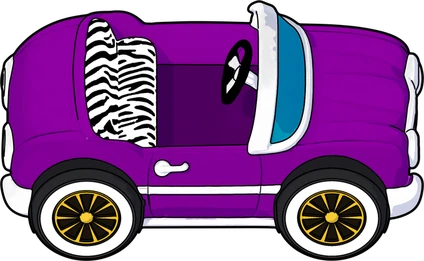
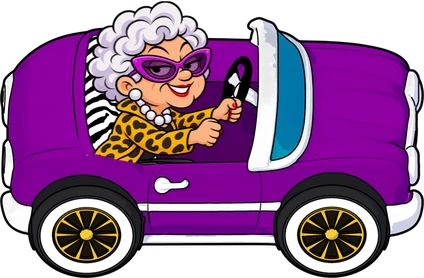
reindeer: two audible sound faults fixed, rules page pictures show the drivers and the tree
- At the fastest turbo all five reel stops fell within about 20 ms and stacked into one doubled sound: one stop sound
  per spin at turbo 2, and a stop still playing from the spin before is cut.
- When the present's open pictures load late the trigger falls back to a pulse, which had no pop: the pop now plays on
  the pulse's first frame.
- Reel 2's stop sound keeps its order after reel 1; sound_probe checks against the game's own frame log.
- Rules page: H1, H2 and W pictures rebuilt as the board draws them (tools/build_rules_pictures.py); the rider sheets are
  stamped. Rules text says "play amount".

Claude-Session: https://claude.ai/code/session_01JaJpCYPZrRZBgw81pXW3tP

diff --git a/apps/run_over_reindeer/src/game/road/roadBoard.ts b/apps/run_over_reindeer/src/game/road/roadBoard.ts
@@ -211,7 +211,11 @@ export class RoadBoard {
 	 *  trigger's pop still to come (the frame the first present's lid leaves the box) */
 	private reelStopAt: (number | null)[] = [null, null, null, null, null];
 	private trafficFading = false;
+	/** this spin drove in at turbo 2: its reel stops are one moment and sound once (RoadSounds.reelStop) */
+	private reelStopTurbo2 = false;
 	private popWanted = false;
+	/** a trigger's pop on its pulse's first frame (the open's pictures were not in time) */
+	private pulsePopWanted = false;
 	/** the win showing: its start (win clock), its whole length, when the total pops in (ms into the win) */
 	private win: { t0: number; holdMs: number; fadeAt: number; active: boolean; dim: boolean; totalAt: number } | null = null;
 	private destroyed = false;
@@ -383,6 +387,12 @@ export class RoadBoard {
 
 	/** every present animating: follows its sprite, shows its frame and light */
 	private updatePresents(now: number) {
+		// a trigger whose open's pictures were not in time pulses instead: its pop on the pulse's first frame (pass 5)
+		if (this.pulsePopWanted && this.win?.active) {
+			this.pulsePopWanted = false;
+			this.features.sounds.mark('lid', 'pulse first frame (the open did not load in time)');
+			this.features.sounds.cue('present', 'pulse');
+		}
 		for (const car of this.cars) {
 			const actor = car.present;
 			if (!actor || !actor.busy) continue;
@@ -563,7 +573,19 @@ export class RoadBoard {
 			allHome = Math.max(allHome, this.laneHomeAt[lane]);
 		});
 		this.parked = parked;
+		// the stop SOUNDS go left to right at normal speed and turbo 1 (constants REINDEER_SOUND reel stop, pass 5): a reel
+		// planned a few ms before the reel to its left sounds with it instead (at turbo 1 reels 1 and 2 are about 9 ms apart)
+		if (level < 2) {
+			let prev = -Infinity;
+			for (let col = 0; col < COLS; col++) {
+				const at = reelStop[col];
+				if (at === null) continue;
+				if (at < prev) reelStop[col] = prev;
+				prev = reelStop[col] as number;
+			}
+		}
 		this.reelStopAt = reelStop;
+		this.reelStopTurbo2 = level === 2;
 		this.trafficFading = false;
 		return this.wait(allHome + 20, 'board');
 	}
@@ -800,9 +822,15 @@ export class RoadBoard {
 			.map((c) => ({ cell: c.phase === 'rest' ? c.col * ROWS + c.lane : null, dir: c.dir, winning: c.winning, lit: c.lights?.lit ?? null, level: Math.round((c.lights?.level ?? 0) * 1000) / 1000, winMs: this.win ? Math.round((this.winClock - this.win.t0) * 10) / 10 : null, winActive: !!this.win?.active }));
 	}
 
-	/** pulse some cells with no line and no amount (the scatters of a trigger); resolves after `ms` */
-	pulseCells(cells: number[], ms: number): Promise<void> {
-		return this.showWin(cells.map((cell) => ({ cells: [cell], line: 1 })), '', ms);
+	/** pulse some cells with no line and no amount (the scatters of a trigger); resolves after `ms`. `presentPop`: this
+	 *  pulse is a trigger's whole show (the open's pictures were not in time), so the presents' pop comes on its first
+	 *  frame, as it would on the open's */
+	pulseCells(cells: number[], ms: number, presentPop = false): Promise<void> {
+		const shown = this.showWin(cells.map((cell) => ({ cells: [cell], line: 1 })), '', ms);
+		this.pulsePopWanted = presentPop && cells.length > 0;
+		return shown.finally(() => {
+			this.pulsePopWanted = false;
+		});
 	}
 
 	/** a short line over the middle of the board (a retrigger's "+3 FREE SPINS"); resolves after `ms` */
@@ -1067,7 +1095,7 @@ export class RoadBoard {
 				this.reelStopAt[col] = null;
 				fired = true;
 				this.features.sounds.mark('reelStop', `reel ${col + 1}`);
-				this.features.sounds.playNamed(REINDEER_SOUND.reelStops[col], `reel ${col + 1}`);
+				this.features.sounds.reelStop(col, this.reelStopTurbo2);
 			} else {
 				left += 1;
 				last = Math.max(last, at);

diff --git a/apps/run_over_reindeer/src/game/constants.ts b/apps/run_over_reindeer/src/game/constants.ts
@@ -662,6 +662,12 @@ export const REINDEER_SOUND = {
 	//              road has four lanes and five reels; at normal speed and turbo 1 the reels finish left to right, at
 	//              turbo 2 (all lanes at once) the middle reel finishes first and the outer pairs together. A reel a
 	//              column Wild holds has no cars, so no stop. Replaces the borrowed sfx_reel_stop (once per lane).
+	//              PASS 5 (2026-11-16): at normal speed and turbo 1 a reel's stop SOUND never comes before the one of
+	//              the reel to its left (at turbo 1 reels 1 and 2 are planned about 9 ms apart, and a wide or narrow
+	//              front car could put reel 2 a few ms first): it waits those few ms, so the order is always left to
+	//              right. At turbo 2 the five stops are one moment (all within about 20 ms): ONE sound for it, the
+	//              first reel to stop (`reelStopTurbo2`), as the house thins its reel stop at turbo (Angry Mantis plays
+	//              its reel stop once while it is still sounding at turbo; Manticore once per board).
 	//   stoplight  sfx_stoplight_change, on the frame a light changes color (green at the press, amber, red), once per
 	//              frame however many lights change in it (the two go green together; red comes to the top light a
 	//              moment before the bottom one)
@@ -720,6 +726,10 @@ export const REINDEER_SOUND = {
 	stamp: { mid: 10, high: 30, names: { small: 'sfx_multiplier_land_small', mid: 'sfx_multiplier_land_mid', high: 'sfx_multiplier_land_high' } },
 	/** one per reel, reel 1 first */
 	reelStops: ['sfx_lane_stop_1', 'sfx_lane_stop_2', 'sfx_lane_stop_3', 'sfx_lane_stop_4', 'sfx_lane_stop_5'],
+	/** TURBO 2's reel stop (pass 5): a reel's stop within gapMs (real ms) of the last reel stop sound is silent (the five
+	 *  land within about 20 ms, so one sound per spin), and one still sounding from the spin before (Super's spins come
+	 *  about 450 ms apart, the sound is 454 ms) is stopped as the next starts, so it never plays twice at once */
+	reelStopTurbo2: { gapMs: 100 },
 	/** THE LINE WIN (game/bookEventHandlerMap.ts winInfo): one symbol's own sound for the whole win, as the one borrowed
 	 *  sfx_cluster_remove was before it: the best paying symbol among the winning lines (W, a line of Wilds only, pays
 	 *  as Grandma's car), with sfx_line_show under it, on the frame the lines show. The road signs go lowest to
@@ -742,7 +752,9 @@ export const REINDEER_SOUND = {
 	/** the cloud loop at the end of a round, real ms */
 	roundEndFadeMs: 300,
 	columnIn: { frame: { reindeer: 5, santa: 5, grandma: 5 } as Record<'reindeer' | 'santa' | 'grandma', number> },
-	/** the present's pop starts on this frame of the open (0 = its first; round 2 started it on PRESENT_LID_FRAME, 3) */
+	/** the present's pop starts on this frame of the open (0 = its first; round 2 started it on PRESENT_LID_FRAME, 3): on
+	 *  the first frame the open DRAWS, whichever of its slots that is on a slow frame. Pass 5: when the open's pictures
+	 *  are not in time and the trigger pulses instead, the pop comes on the pulse's first frame */
 	presentPopFrame: 0,
 	/** a column character's win clip, by tier */
 	columnWin: { reindeer: 'sfx_column_win_reindeer', santa: 'sfx_column_win_santa', grandma: 'sfx_column_win_grandma' } as Record<'reindeer' | 'santa' | 'grandma', string>,

diff --git a/apps/run_over_reindeer/src/game/assetStamp.ts b/apps/run_over_reindeer/src/game/assetStamp.ts
@@ -225,6 +225,14 @@ export default {
 	"reindeer/run-full-2.webp": "9cac42b7",
 	"reindeer/run-full-3.webp": "558c65e2",
 	"reindeer/run-phone-0.webp": "1ec4d7f1",
+	"riders/seated-phone.json": "c4510073",
+	"riders/seated-phone.webp": "7f68a39c",
+	"riders/seated.json": "fb540aa4",
+	"riders/seated.webp": "902dd1bb",
+	"riders/wagon-tree-phone.json": "f1c343b2",
+	"riders/wagon-tree-phone.webp": "7f3c49a0",
+	"riders/wagon-tree.json": "c4ab0161",
+	"riders/wagon-tree.webp": "3e84d2d3",
 	"road/road.webp": "b1a78143",
 	"road/shadow-phone.webp": "6c79ec81",
 	"road/shadow.webp": "e5e8af63",
@@ -235,9 +243,9 @@ export default {
 	"road/win-lights-phone.webp": "4f7f6fb7",
 	"road/win-lights.webp": "ba8efd5b",
 	"symbols/single/H1_L.webp": "0a0b23ba",
-	"symbols/single/H1_R.webp": "335f2a5c",
+	"symbols/single/H1_R.webp": "3a8ac4fc",
 	"symbols/single/H2_L.webp": "10f999b2",
-	"symbols/single/H2_R.webp": "1c709ba9",
+	"symbols/single/H2_R.webp": "2ccf38d5",
 	"symbols/single/H3_L.webp": "b96164c5",
 	"symbols/single/H3_R.webp": "3d47a973",
 	"symbols/single/H4_L.webp": "be574d2e",
@@ -249,7 +257,7 @@ export default {
 	"symbols/single/L5.webp": "2f2d8dd5",
 	"symbols/single/S.webp": "16153822",
 	"symbols/single/W_L.webp": "de883aad",
-	"symbols/single/W_R.webp": "d6ac8d4f",
+	"symbols/single/W_R.webp": "2ce8ecb1",
 	"symbols/single/reindeer_run.webp": "61d4e10f",
 	"symbols/single/reindeer_run_L.webp": "8b1bcb94",
 	"symbols/symbols-phone.json": "0c4d5c50",
@@ -484,6 +492,14 @@ export const fileBytes = {
 	"reindeer/run-full-2.webp": 807480,
 	"reindeer/run-full-3.webp": 366226,
 	"reindeer/run-phone-0.webp": 903830,
+	"riders/seated-phone.json": 76468,
+	"riders/seated-phone.webp": 73604,
+	"riders/seated.json": 357878,
+	"riders/seated.webp": 354992,
+	"riders/wagon-tree-phone.json": 48501,
+	"riders/wagon-tree-phone.webp": 46176,
+	"riders/wagon-tree.json": 217447,
+	"riders/wagon-tree.webp": 215108,
 	"road/road.webp": 180214,
 	"road/shadow-phone.webp": 2382,
 	"road/shadow.webp": 9834,
@@ -494,9 +510,9 @@ export const fileBytes = {
 	"road/win-lights-phone.webp": 5116,
 	"road/win-lights.webp": 16434,
 	"symbols/single/H1_L.webp": 28124,
-	"symbols/single/H1_R.webp": 28604,
+	"symbols/single/H1_R.webp": 34898,
 	"symbols/single/H2_L.webp": 30550,
-	"symbols/single/H2_R.webp": 30336,
+	"symbols/single/H2_R.webp": 41838,
 	"symbols/single/H3_L.webp": 31146,
 	"symbols/single/H3_R.webp": 31076,
 	"symbols/single/H4_L.webp": 23634,
@@ -508,7 +524,7 @@ export const fileBytes = {
 	"symbols/single/L5.webp": 19096,
 	"symbols/single/S.webp": 21890,
 	"symbols/single/W_L.webp": 33182,
-	"symbols/single/W_R.webp": 32870,
+	"symbols/single/W_R.webp": 40536,
 	"symbols/single/reindeer_run.webp": 48996,
 	"symbols/single/reindeer_run_L.webp": 48790,
 	"symbols/symbols-phone.json": 926605,
@@ -523,4 +539,4 @@ export const landingSizes = {
 	"fonts/overpass/Overpass-heavy.woff2": 35400
 } as const;
 
-export const bootSizes = {"landing":64084,"preload":5106845,"audio":1471462} as const;
+export const bootSizes = {"landing":64084,"preload":5682170,"audio":1471462} as const;

diff --git a/apps/run_over_reindeer/src/game/road/roadSounds.ts b/apps/run_over_reindeer/src/game/road/roadSounds.ts
@@ -49,6 +49,9 @@ export class RoadSounds {
 	private dropFrame = -1;
 	private lockFrame = -1;
 	private lightFrame = -1;
+	/** the last reel stop sound: when (performance.now) and which */
+	private reelStopT = -Infinity;
+	private reelStopName = '';
 	/** the frame each tier's column win sound last played */
 	private winFrame: Record<string, number> = {};
 	private log: RoadSoundEntry[] = [];
@@ -103,6 +106,22 @@ export class RoadSounds {
 	playNamed(name: string, detail?: string, rate?: number) {
 		this.note('sound', name, rate !== undefined && rate !== 1 ? `${detail ?? ''} rate ${rate.toFixed(4)}`.trim() : detail);
 		this.env.play(name, rate);
+	}
+
+	/** A REEL'S STOP (roadBoard.updateReelStops), its own sound on this frame. At turbo 2 (`turbo2`) the five stops are one
+	 *  moment: a stop within REINDEER_SOUND.reelStopTurbo2.gapMs of the last one sounded is silent, and the last one, if it
+	 *  is still sounding (the spin before's), is stopped as this one starts: one at a time */
+	reelStop(reel: number, turbo2: boolean) {
+		const name = REINDEER_SOUND.reelStops[reel];
+		const now = performance.now();
+		if (turbo2) {
+			if (now - this.reelStopT < REINDEER_SOUND.reelStopTurbo2.gapMs) return;
+			// (a play that has already ended is gone from the player: stopping it does nothing)
+			if (this.reelStopName) this.env.stop(this.reelStopName);
+		}
+		this.reelStopT = now;
+		this.reelStopName = name;
+		this.playNamed(name, `reel ${reel + 1}`);
 	}
 
 	/** THE TARGET CROSSHAIR'S BEATS (RoadFeatures.onCrosshair): each hop at its own rate, a drop once a frame and never on

diff --git a/apps/run_over_reindeer/src/components/Board.svelte b/apps/run_over_reindeer/src/components/Board.svelte
@@ -202,10 +202,10 @@
 		boardWinClear: () => road.clearWin(),
 		boardPulse: async ({ cells, ms }) => {
 			// THE PRESENTS OF A TRIGGER play their full open with the light (game/road/present.ts), the other symbols dimmed
-			// for as long; without the open's pictures in time they pulse as before
+			// for as long; without the open's pictures in time they pulse as before (with the pop on the pulse's first frame)
 			if (await road.presentsReady()) {
 				await Promise.all([road.openPresents(cells), road.pulseCells(cells, Math.max(ms, road.presentShowMs() / boardRate()))]);
-			} else await road.pulseCells(cells, ms);
+			} else await road.pulseCells(cells, ms, true); // (the presents' pop on the pulse's first frame, as on the open's)
 			road.clearWin();
 		},
 		boardMessage: async ({ text, ms }) => {

diff --git a/apps/run_over_reindeer/src/game/gameInfoText.ts b/apps/run_over_reindeer/src/game/gameInfoText.ts
@@ -40,7 +40,7 @@ const R = config.multipliers.bonusRare;
 export const gameInfoText = () => ({
 	paytable: {
 		intro: soc(
-			`Wins pay on **${config.paylines.length} fixed lines**, from the leftmost column to the right, for 3, 4 or 5 matching symbols in a row. Amounts are shown for the current bet.`,
+			`Wins pay on **${config.paylines.length} fixed lines**, from the leftmost column to the right, for 3, 4 or 5 matching symbols in a row. Amounts are shown for the current play amount.`,
 			`Wins land on **${config.paylines.length} fixed lines**, from the leftmost column to the right, for 3, 4 or 5 matching symbols in a row. Amounts are multiples of the play amount.`,
 		),
 		specials: 'Special symbols',

diff --git a/apps/run_over_reindeer/tools/build_rules_pictures.py b/apps/run_over_reindeer/tools/build_rules_pictures.py
@@ -1,0 +1,144 @@
+"""THE RULES PAGE'S VEHICLE PICTURES WITH THEIR RIDERS (2026-11-16): Grandma's car (H1) with Grandma seated, the station
+wagon (H2) with its Christmas tree, rail and ropes, Santa's sleigh (W) with Santa seated, as the board draws them at rest.
+
+Run with the math env's Python (Pillow, numpy, scipy), AFTER tools/build_assets.py (it writes every rules page picture,
+these three empty), tools/build_seated.py and tools/build_wagon_tree.py:
+    math-sdk/env/bin/python web-sdk/apps/run_over_reindeer/tools/build_rules_pictures.py [--out <dir>]
+
+It READS only the game's own built art: the desktop symbol atlas (static/assets/symbols/symbols.webp, the vehicle
+sprite), the desktop rider sheets (static/assets/riders/seated.webp, wagon-tree.webp) and the placements the game draws
+them by (src/game/seatedSpec.ts, wagonTreeSpec.ts, roadArtSpec.ts, constants SEATED.place at its defaults). All of it is
+at 3.2 px per road px; the riders are placed on the vehicle at that density (bilinear, premultiplied), in the game's
+order: the vehicle sprite, then the driver and the front layer (the near door, the sleigh's near wall), or the tree, the
+front rail and the ropes. At rest: no lean, no bob, no bend.
+It WRITES static/assets/symbols/single/{H1_R,H2_R,W_R}.webp (or into --out): the right facing pictures the rules page
+shows (ui/GameInfoModal.svelte pictureOf), at the same 2 px per road px and webp quality as tools/build_assets.py. The
+canvas is the vehicle's own box, grown only where a rider reaches past it (Grandma's head, the tree's top), so the
+vehicle draws at the same size in the page's square tile as before. The _L pictures are not on the page and stay as
+build_assets.py made them.
+"""
+import argparse
+import json
+import math
+import os
+
+import numpy as np
+from PIL import Image
+from scipy import ndimage
+
+HERE = os.path.dirname(os.path.abspath(__file__))
+APP = os.path.dirname(HERE)
+ASSETS = os.path.join(APP, "static", "assets")
+GAME = os.path.join(APP, "src", "game")
+DENS = 3.2  # px per road px of the desktop atlases
+OUT_DENS = 2.0  # the rules page pictures' (tools/build_assets.py build_symbols)
+
+
+def ts_json(name):
+    src = open(os.path.join(GAME, name)).read()
+    return json.loads(src[src.index("{"): src.rindex("}") + 1])
+
+
+def sheet_frame(sheet_json, name):
+    meta = json.load(open(os.path.join(ASSETS, sheet_json)))
+    f = meta["frames"][name]["frame"]
+    im = Image.open(os.path.join(os.path.dirname(os.path.join(ASSETS, sheet_json)), meta["meta"]["image"])).convert("RGBA")
+    return np.asarray(im.crop((f["x"], f["y"], f["x"] + f["w"], f["y"] + f["h"]))).astype(np.float32) / 255.0
+
+
+def draw(canvas, pic, x, y, w, h, origin, anchor=(0.0, 0.0), mirror=False):
+    """`pic` drawn over `canvas` (straight alpha float RGBA): its anchor point at road (x, y), road size w x h, mirrored
+    about its anchor; `origin` the canvas px of road (0, 0). Bilinear on premultiplied pixels."""
+    H, W = canvas.shape[:2]
+    ph, pw = pic.shape[:2]
+    yy, xx = np.mgrid[0:H, 0:W].astype(np.float32) + 0.5
+    rx = (xx - origin[0]) / DENS - x  # road px from the anchor point
+    ry = (yy - origin[1]) / DENS - y
+    if mirror:
+        rx = -rx
+    sx = (rx / w + anchor[0]) * pw - 0.5
+    sy = (ry / h + anchor[1]) * ph - 0.5
+    pm = pic.copy()
+    pm[..., :3] *= pm[..., 3:4]
+    top = np.stack([ndimage.map_coordinates(pm[..., i], [sy, sx], order=1, mode="constant") for i in range(4)], -1)
+    # straight over: out = top + bottom * (1 - a_top), in premultiplied terms
+    bot = canvas.copy()
+    bot[..., :3] *= bot[..., 3:4]
+    out = top + bot * (1 - top[..., 3:4])
+    a = np.clip(out[..., 3:4], 1e-6, 1)
+    out[..., :3] = np.clip(out[..., :3] / a, 0, 1)
+    out[..., 3] = np.clip(out[..., 3], 0, 1)
+    return out
+
+
+def resize(arr, scale):
+    """tools/build_assets.py resize: premultiplied Lanczos, so no dark fringes"""
+    h, w = arr.shape[:2]
+    pm = arr.copy()
+    pm[..., :3] *= pm[..., 3:4]
+    im = Image.fromarray((pm * 255).round().astype(np.uint8), "RGBA").resize((max(1, round(w * scale)), max(1, round(h * scale))), Image.LANCZOS)
+    out = np.asarray(im).astype(np.float32) / 255.0
+    alpha = np.clip(out[..., 3:4], 1e-6, 1)
+    out[..., :3] = np.clip(out[..., :3] / alpha, 0, 1)
+    return Image.fromarray((out * 255).round().astype(np.uint8), "RGBA")
+
+
+def layers(frame):
+    """the layers over the vehicle sprite, in draw order: (picture, x, y, w, h, anchor, mirror), road px from the anchor"""
+    if frame == "H2_R":
+        t = ts_json("wagonTreeSpec.ts")["frames"][frame]["tiers"]["full"]
+        return [(sheet_frame("riders/wagon-tree.json", f"{frame}_{k}"), t[k]["x"], t[k]["y"], t[k]["w"], t[k]["h"], (0, 0), False) for k in ("tree", "rail", "ropes")]
+    S = ts_json("seatedSpec.ts")
+    f = S["frames"][frame]
+    c = S["characters"][f["character"]]
+    ct = c["tiers"]["full"]
+    k = f["height"] / c["height"]  # constants SEATED.place[frame].scale is 1 and its dx, dy 0 (checked by the game's probe)
+    fb = f["tiers"]["full"]["front"]
+    return [
+        (sheet_frame("riders/seated.json", f"seat_{f['character']}"), f["at"][0], f["at"][1], ct["width"] * k, ct["height"] * k, tuple(ct["anchor"]), f["mirror"]),
+        (sheet_frame("riders/seated.json", f"{frame}_front"), fb["x"], fb["y"], fb["w"], fb["h"], (0, 0), False),
+    ]
+
+
+def build(frame, out_dir):
+    rw, rh = ts_json("roadArtSpec.ts")["symbols"][frame].values()
+    car = sheet_frame("symbols/symbols.json", frame)
+    L = layers(frame)
+    # the canvas: the vehicle's box (anchor at its bottom centre), grown to every layer's box
+    x0, y0, x1, y1 = -rw / 2, -rh, rw / 2, 0.0
+    for pic, x, y, w, h, an, mir in L:
+        lx = x - an[0] * w if not mir else x - (1 - an[0]) * w
+        x0, y0, x1, y1 = min(x0, lx), min(y0, y - an[1] * h), max(x1, lx + w), max(y1, y + (1 - an[1]) * h)
+    # whole output px on every side the vehicle's own box had (so the vehicle keeps its exact place in the old picture)
+    grow = [math.ceil(((-rw / 2) - x0) * OUT_DENS - 1e-6), math.ceil(((-rh) - y0) * OUT_DENS - 1e-6), math.ceil((x1 - rw / 2) * OUT_DENS - 1e-6), math.ceil((y1 - 0) * OUT_DENS - 1e-6)]
+    car_w, car_h = car.shape[1], car.shape[0]
+    pad = [g / OUT_DENS * DENS for g in grow]  # in atlas px
+    W = round(car_w + pad[0] + pad[2])
+    H = round(car_h + pad[1] + pad[3])
+    canvas = np.zeros((H, W, 4), np.float32)
+    ox, oy = round(pad[0]), round(pad[1])
+    canvas[oy: oy + car_h, ox: ox + car_w] = car
+    # road (0, 0) is the sprite's anchor, its bottom centre, in canvas px
+    origin = (ox + car_w / 2, oy + car_h)
+    kx, ky = car_w / rw, car_h / rh
+    assert abs(kx - DENS) < 0.02 and abs(ky - DENS) < 0.02, (frame, kx, ky)
+    for pic, x, y, w, h, an, mir in L:
+        canvas = draw(canvas, pic, x, y, w, h, origin, an, mir)
+    small = resize(canvas, OUT_DENS / DENS)
+    path = os.path.join(out_dir, f"{frame}.webp")
+    small.save(path, quality=90, method=6)
+    return path, small.size, grow
+
+
+def main():
+    ap = argparse.ArgumentParser()
+    ap.add_argument("--out", default=os.path.join(ASSETS, "symbols", "single"))
+    args = ap.parse_args()
+    os.makedirs(args.out, exist_ok=True)
+    for frame in ("H1_R", "H2_R", "W_R"):
+        path, size, grow = build(frame, args.out)
+        print(f"  {frame}: {size[0]} x {size[1]} (grown left {grow[0]}, top {grow[1]}, right {grow[2]}, bottom {grow[3]} px past the vehicle) -> {os.path.relpath(path, APP)}")
+
+
+if __name__ == "__main__":
+    main()

diff --git a/apps/run_over_reindeer/tools/build_assets.py b/apps/run_over_reindeer/tools/build_assets.py
@@ -11,7 +11,10 @@ It only READS the sources (the Desktop folder and ~/Library/Fonts) and writes in
   static/assets/symbols/symbols.json + .webp         the symbol atlas, desktop tier (ATLAS_SCALE.full px per road px);
                                                      it also carries the stoplight's frames (gather_stoplight)
   static/assets/symbols/symbols-phone.json + .webp   the phone tier twin (ATLAS_SCALE.phone px per road px)
-  static/assets/symbols/single/<frame>.webp          one small picture per symbol for the HTML rules page
+  static/assets/symbols/single/<frame>.webp          one small picture per symbol for the HTML rules page (the
+                                                     vehicles empty: run tools/build_rules_pictures.py after it, and
+                                                     after build_seated.py / build_wagon_tree.py, for H1_R, H2_R and
+                                                     W_R with their riders as the board draws them)
   static/assets/fonts/overpass/*.woff2               Overpass Regular, Bold, ExtraBold and Heavy
   src/game/roadArtSpec.ts                            the measured numbers the game places things by (generated)
 
